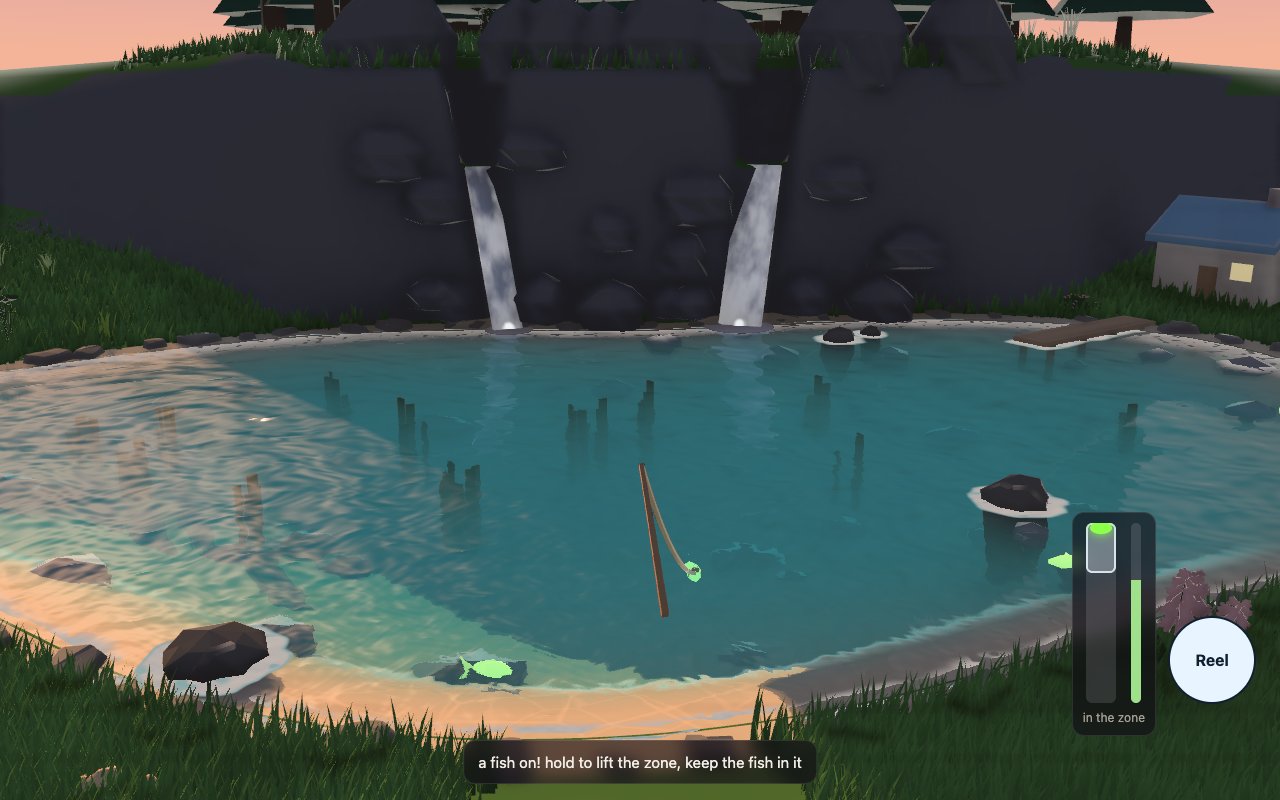
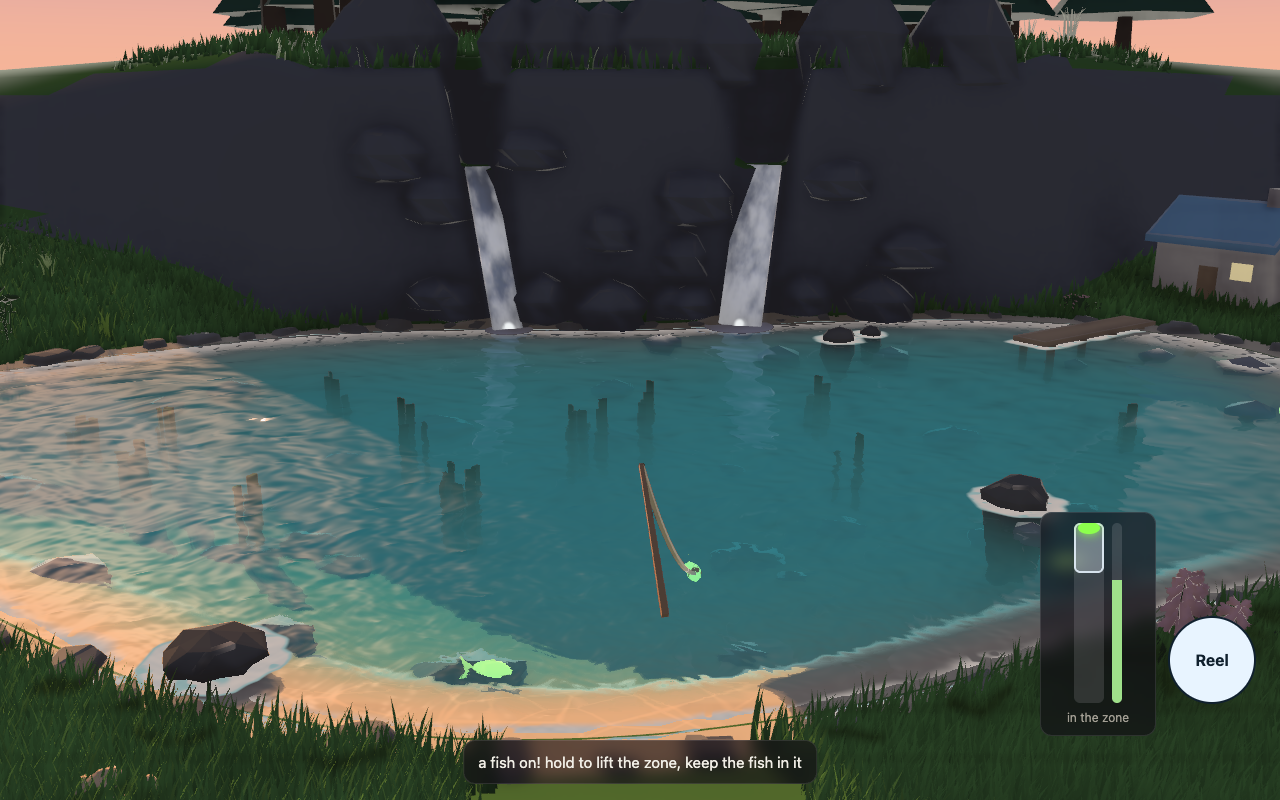
The fight's bar stands still: it no longer jumps sideways as its words change between in and out of the zone
The bar's panel had no width of its own and was held by its right edge,
so it took the width of its widest child, the words under the bar; "out of
the zone" is wider than "in the zone", and each time the fish crossed the
zone's edge the whole panel, bar and meter with it, jumped 17 pixels
sideways. The panel now has a width of its own, room for the longer words,
and its grid's columns are the bar's and the meter's fixed widths (named
once, as `--bar-width` and `--meter-width`), so the words span them without
widening them.

The end-to-end fight now records where the bar is on the screen every
tenth of a second, and that the fish was both in and out of the zone; it
failed with the bar at x 1069 and 1086, then at 1065 and 1070 with only the
width fixed, and passes now; with the columns let go back to `auto` it
fails again. `desk-fight`, `phone-fight` and `fishing-fight-dusk` were
written again for the wider panel, each looked at. `npm run check` green on
this commit alone, the download unchanged.

Changed region(s): [[0.8125, 0.625, 0.9062, 0.9375]]

diff --git a/smoke/progress.spec.ts b/smoke/progress.spec.ts
@@ -229,6 +229,9 @@ test('a fish bites, is struck by space, played on the bar by the Reel button and
   };
   let movedUp = false,
     fell = false;
+  // the bar stands still on the screen however the words under it change, in the zone or out of it
+  const places = new Set<string>();
+  const words = new Set<string>();
   for (let f = 0; f < 120 * 60; f += 6) {
     const { phase, zone, width, fishAt } = await page.evaluate(() => window.game!.fishing());
     if (phase !== 'hooked') break;
@@ -241,6 +244,9 @@ test('a fish bites, is struck by space, played on the bar by the Reel button and
       held = by;
     }
     expect((await page.evaluate(() => window.game!.fishing())).reeling).toBe(held !== null);
+    const place = await page.locator('#gaugeBar').boundingBox();
+    places.add(`${Math.round(place!.x)} ${Math.round(place!.y)}`);
+    words.add((await page.locator('#gaugeWords').textContent()) ?? '');
     await page.evaluate(() => window.game!.step(6));
     const after = (await page.evaluate(() => window.game!.fishing())).zone;
     if (held && after > zone) movedUp = true;
@@ -248,6 +254,8 @@ test('a fish bites, is struck by space, played on the bar by the Reel button and
   }
   expect(movedUp, 'the zone rose while held').toBe(true);
   expect(fell, 'and fell when let go').toBe(true);
+  expect([...words].sort(), 'the fish was both in the zone and out of it').toEqual(['in the zone', 'out of the zone']);
+  expect([...places], 'the bar never moved on the screen').toHaveLength(1);
   await letGo();
   await play(page, 1, 'the fight');
   await expect(page.locator('#gauge')).toBeHidden();

diff --git a/index.html b/index.html
@@ -178,8 +178,15 @@
   #gauge {
     bottom: 64px;
     right: 124px;
+    /* a width of its own, room for the longer words, so the bar does not move as they change */
+    width: 116px;
+    box-sizing: border-box;
     display: grid;
-    grid-template-columns: auto auto;
+    justify-content: center;
+    /* fixed columns, the bar's and the meter's: the words span them without widening them */
+    --bar-width: 30px;
+    --meter-width: 10px;
+    grid-template-columns: var(--bar-width) var(--meter-width);
     gap: 6px 8px;
     justify-items: center;
     font-size: 12px;
@@ -198,10 +205,10 @@
     overflow: hidden;
   }
   #gaugeBar {
-    width: 30px;
+    width: var(--bar-width);
   }
   #gaugeMeter {
-    width: 10px;
+    width: var(--meter-width);
   }
   #gaugeZone {
     position: absolute;
